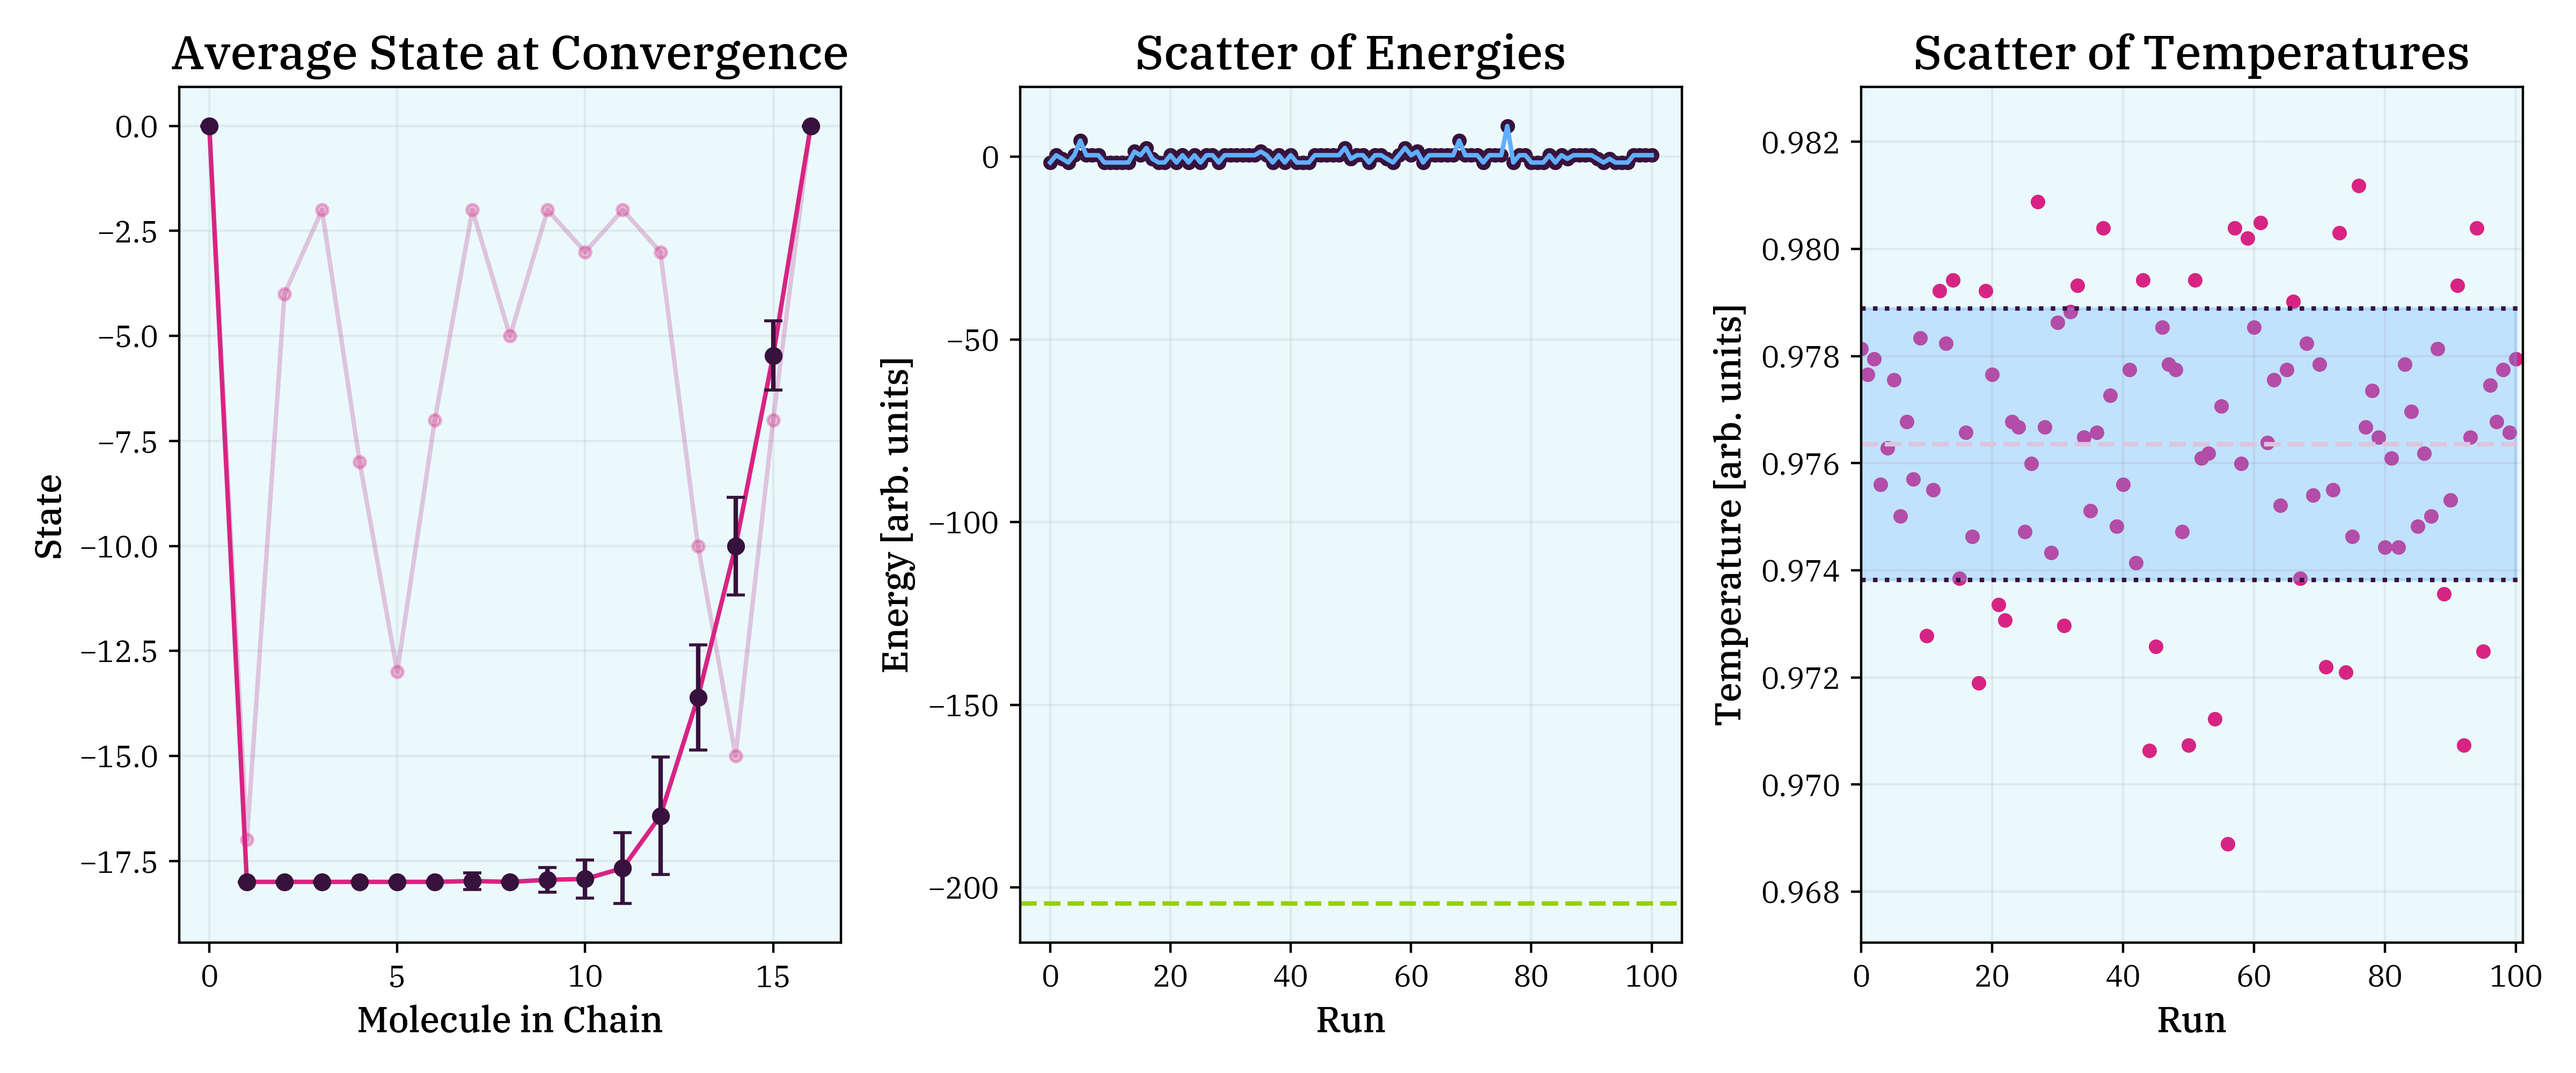
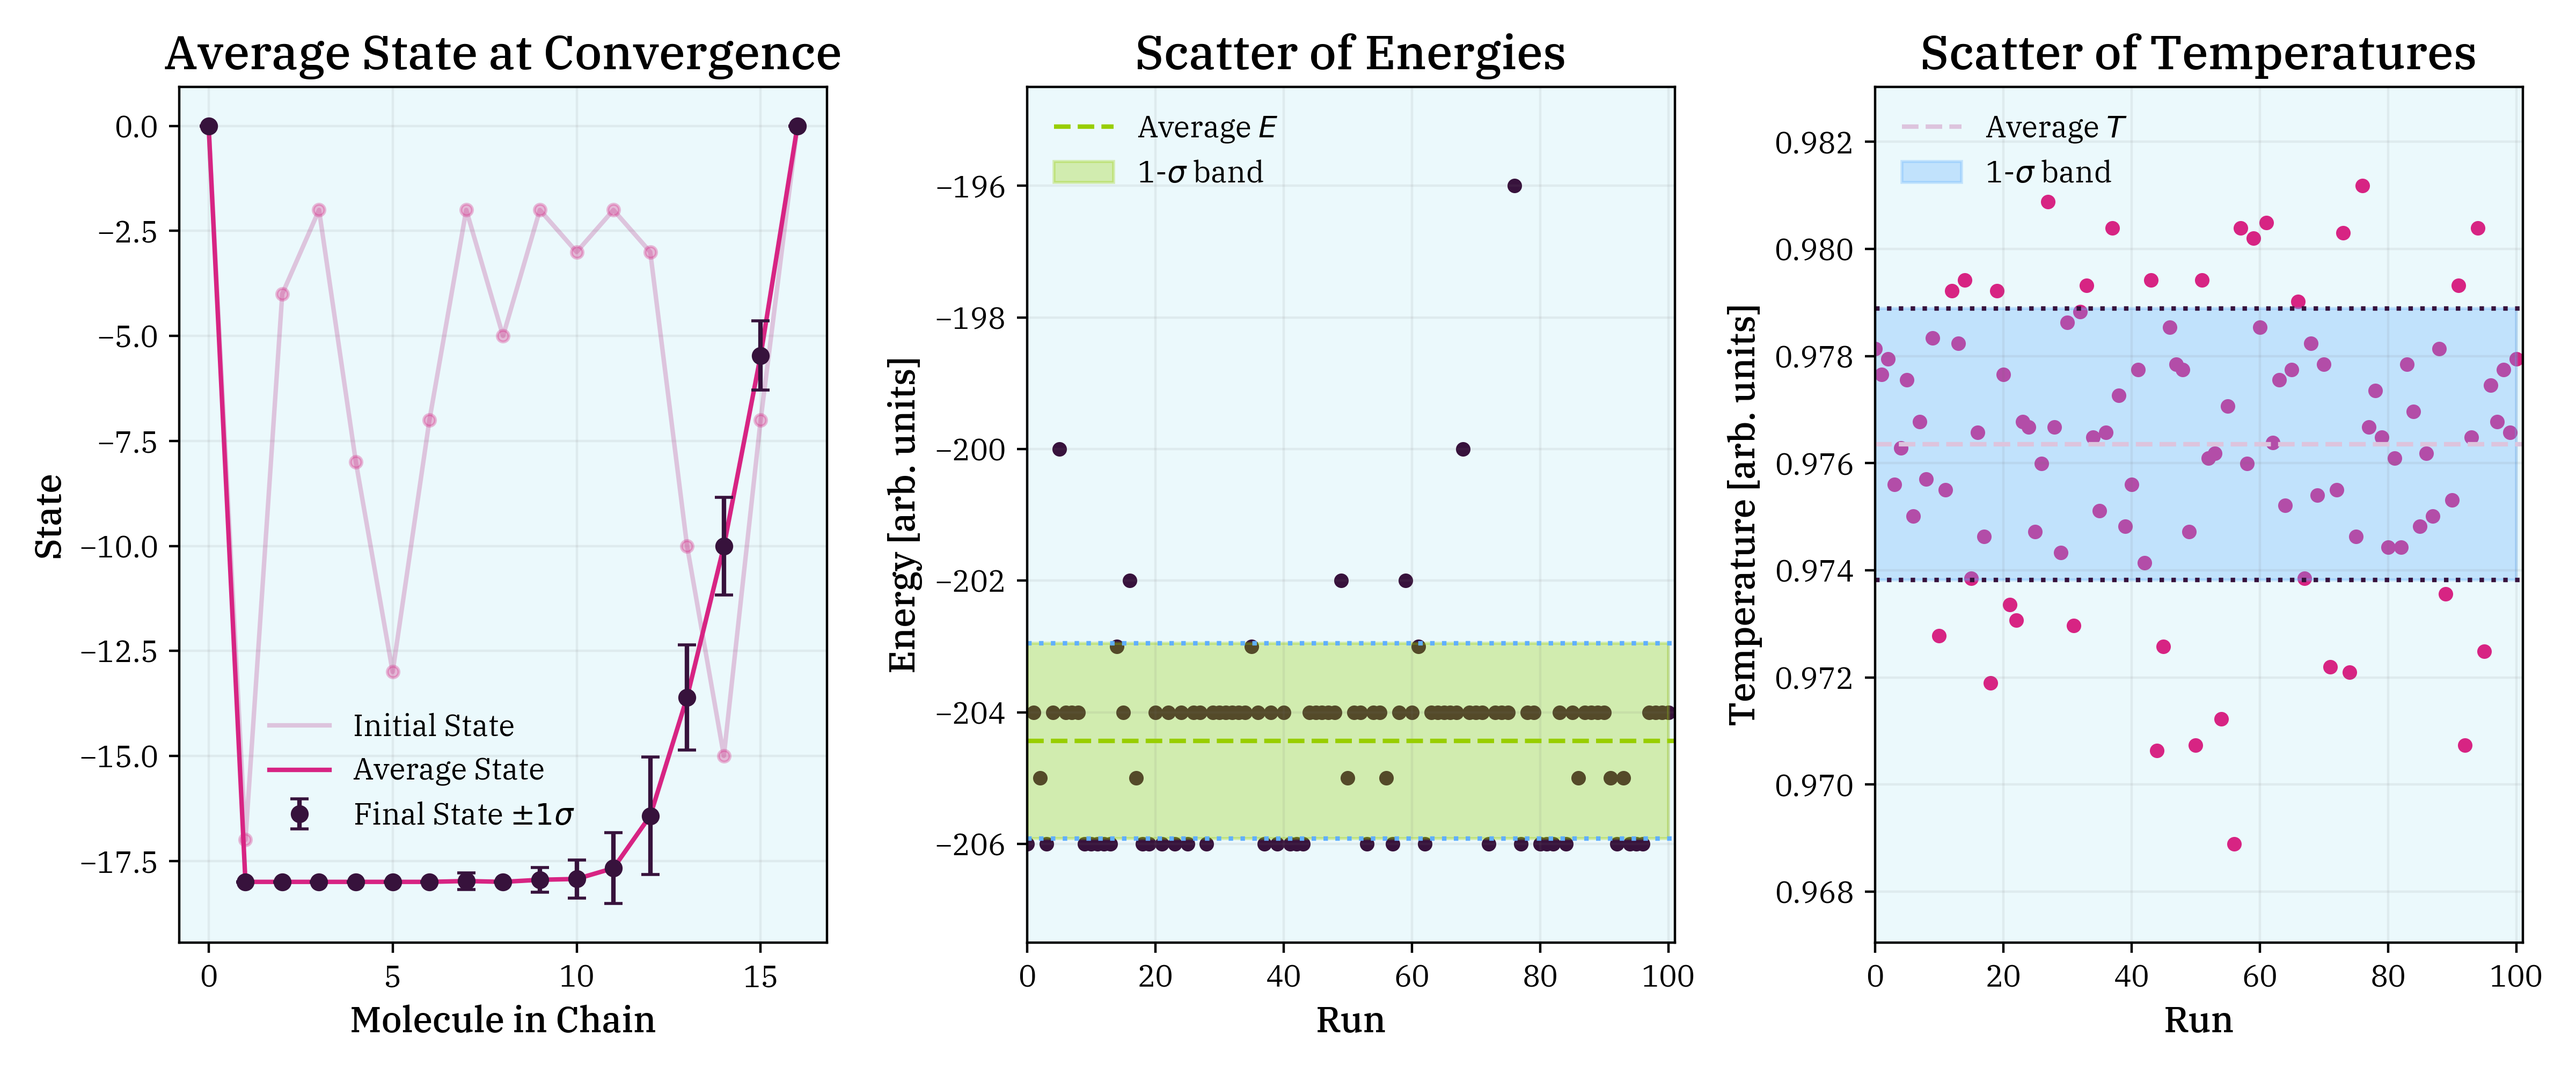
feat: :art: finish plot for multiple fixed init runs

diff --git a/MolecularChain2/Code/plot-fixed-init.py b/MolecularChain2/Code/plot-fixed-init.py
@@ -65,17 +65,31 @@ colors = ["#37123c","#d72483","#ddc4dd","#60afff","#98CE00"]
 
 fig, ax = plt.subplots(1, 3, figsize=(12, 5))
 
-ax[0].plot(init, color=colors[2], zorder=1)
+ax[0].plot(init, color=colors[2], zorder=1, label="Initial State")
 ax[0].scatter(molecules, init, color=colors[1], alpha=0.3, s=15, zorder=2)
-ax[0].plot(avg_state, color=colors[1], zorder=1)
-ax[0].errorbar(molecules, avg_state, yerr=sigma_state, color=colors[0], alpha=1, fmt='o', markersize=5, capsize=3, zorder=2)
+ax[0].plot(avg_state, color=colors[1], zorder=1, label="Average State")
+ax[0].errorbar(molecules, avg_state, yerr=sigma_state, color=colors[0],
+               alpha=1, fmt='o', markersize=5, capsize=3, zorder=2,
+               label=r"Final State $\pm 1\sigma$")
+ax[0].legend(frameon=False, ncols=1,
+             loc='upper center', bbox_to_anchor=(0.375, 0.3))
 ax[0].set_xlabel("Molecule in Chain")
 ax[0].set_ylabel("State")
 ax[0].set_title("Average State at Convergence")
 
-ax[1].axhline(avg_energy, color=colors[4], linestyle='--')
-ax[1].plot(delta_energy, color=colors[3])
-ax[1].scatter(runs, delta_energy, color=colors[0], alpha=1, s=15)
+e_min = final_energies.min()
+e_max = final_energies.max()
+e_range_offset = (e_max - e_min) * 0.15
+
+ax[1].axhline(avg_energy, color=colors[4], linestyle='--', label=f"Average $E$")
+ax[1].scatter(runs, final_energies, color=colors[0], alpha=1, s=15)
+ax[1].axhline(avg_energy + sigma_energy, color=colors[3], ls=':')
+ax[1].axhline(avg_energy - sigma_energy, color=colors[3], ls=':')
+ax[1].fill_between(runs, avg_energy - sigma_energy, avg_energy + sigma_energy,
+                   color=colors[4], alpha=0.3, label=r"1-$\sigma$ band")
+ax[1].set_ylim(e_min - e_range_offset, e_max + e_range_offset)
+ax[1].set_xlim(0, num_runs)
+ax[1].legend(frameon=False)
 ax[1].set_xlabel("Run")
 ax[1].set_ylabel("Energy [arb. units]")
 ax[1].set_title("Scatter of Energies")
@@ -92,7 +106,7 @@ ax[2].fill_between(runs, avg_temperature - sigma_temperature, avg_temperature + 
                    color=colors[3], alpha=0.3, label=r"1-$\sigma$ band")
 ax[2].set_ylim(t_min - t_range_offset, t_max + t_range_offset)
 ax[2].set_xlim(0, num_runs)
-
+ax[2].legend(frameon=False)
 ax[2].set_xlabel("Run")
 ax[2].set_ylabel("Temperature [arb. units]")
 ax[2].set_title("Scatter of Temperatures")
